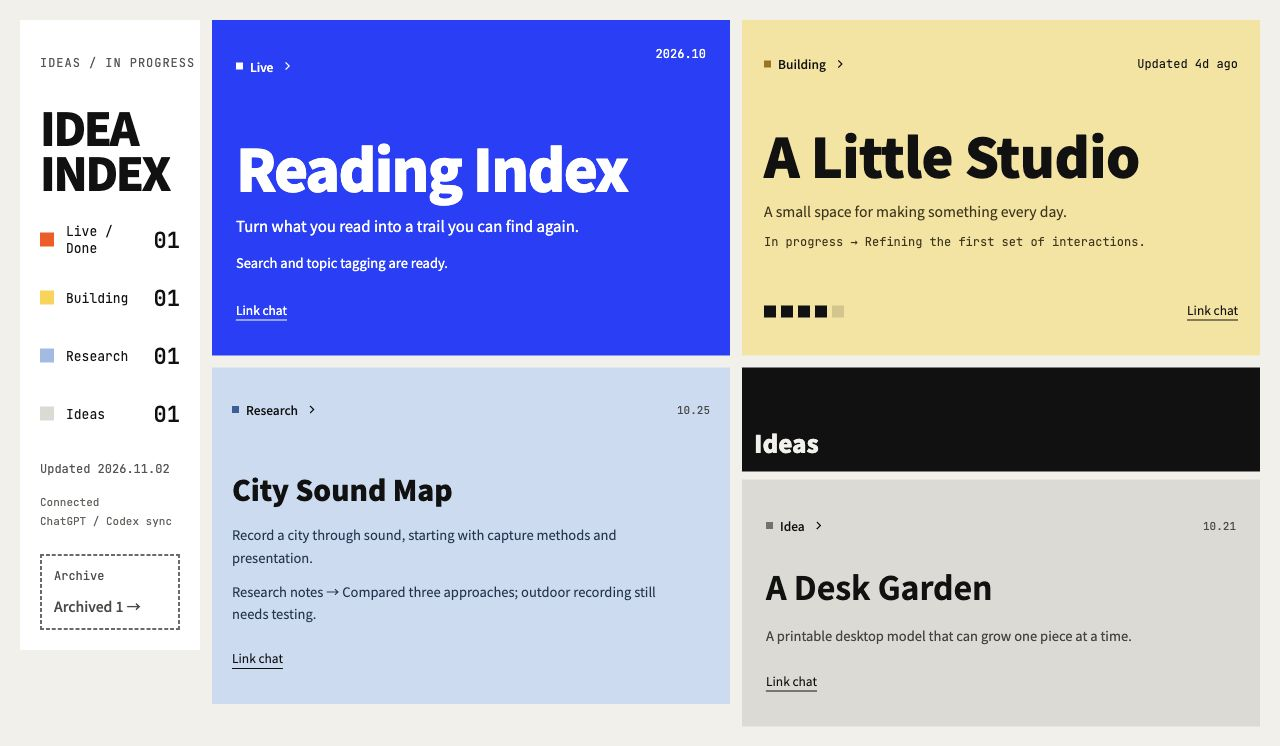
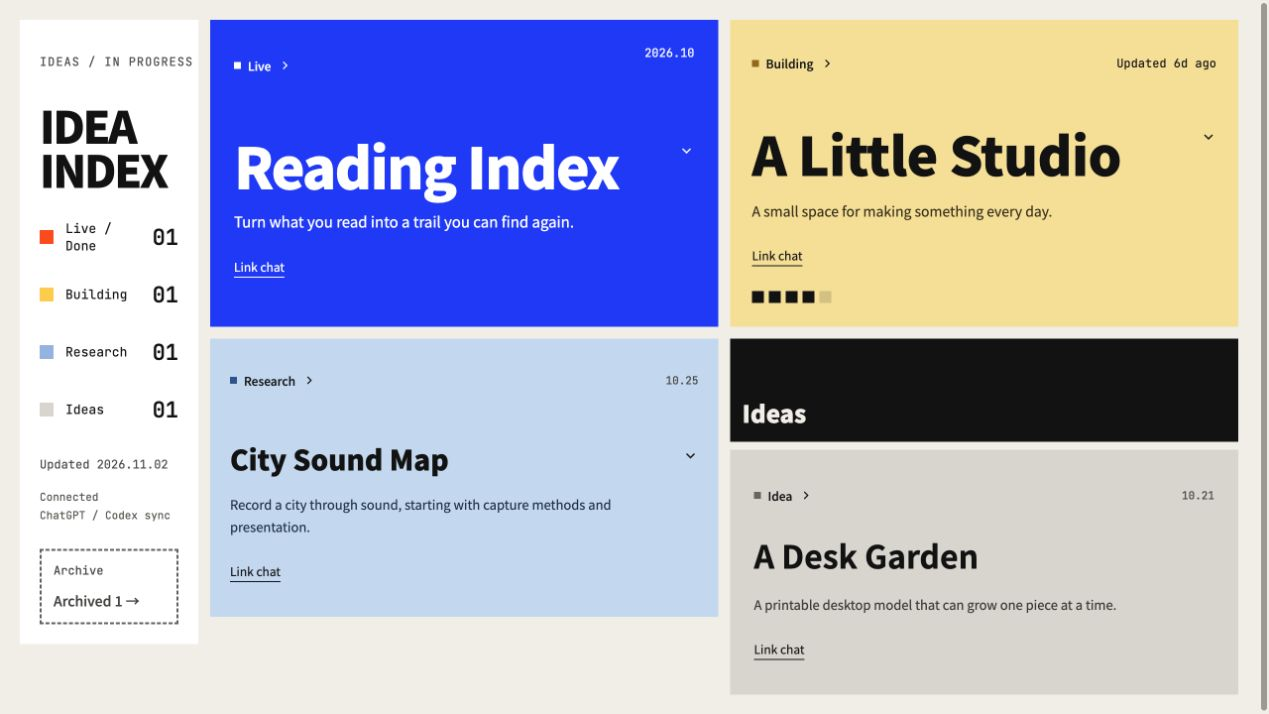
fix: stabilize expanded cards and preserve conversation sources

diff --git a/worker/index.js b/worker/index.js
@@ -25,12 +25,44 @@ async function mutate(env,apply){
 }
 function record(p,status,source,evidence){const now=new Date().toISOString();if(status!==p.status){if(status==='discarded')p.previousStatus=p.status;p.history=[{at:now,from:p.status,to:status,source,evidence},...p.history].slice(0,200);p.status=status;}p.statusSource=source;p.statusChangedAt=now;}
 async function updateStatus(env,id,status){if(!STATUSES.includes(status))fail('Invalid status');return mutate(env,state=>{const p=state.ideas.find(p=>p.id===id);if(!p)fail('Project not found',404);if(p.status===status)return false;record(p,status,'manual','在项目卡片上更改状态');});}
-async function updateChatLink(env,id,chatUrl){
+// Session metadata is an opaque correlation key, never a public conversation ID.
+// Remember a real URL once supplied, and reuse it only in that caller's session.
+async function sourceSession(request,meta){
+ const session=meta?.['openai/session'],user=request.headers.get('oai-authenticated-user-id');
+ return user&&typeof session==='string'&&session.length>0&&session.length<=512?await digest(JSON.stringify([user,session])):'';
+}
+function rememberSource(state,p,input,sessionKey='',source='sync',replace=true){
+ let changed=false;
+ if(sessionKey&&!(p.chatSessionKeys||[]).includes(sessionKey)){
+  p.chatSessionKeys=[sessionKey,...(p.chatSessionKeys||[])].slice(0,24);changed=true;
+ }
+ const supplied=validChatURL(input.chatUrl);
+ if(supplied&&sessionKey){
+  const sources=state.chatSources||{};
+  if(sources[sessionKey]!==supplied){
+   delete sources[sessionKey];sources[sessionKey]=supplied;
+   state.chatSources=Object.fromEntries(Object.entries(sources).slice(-256));changed=true;
+  }
+ }
+ const url=supplied||(sessionKey?validChatURL(state.chatSources?.[sessionKey]):'');
+ const save=(card,canReplace)=>{
+  if(!url||(card.chatUrl&&!canReplace)||card.chatUrl===url)return;
+  card.chatUrl=url;card.chatLinkSource=source;card.chatLinkUpdatedAt=new Date().toISOString();changed=true;
+ };
+ save(p,replace);
+ // A chat can contain several ideas. Repair earlier unlinked cards from the
+ // same session without replacing their independently known sources.
+ if(supplied&&sessionKey)for(const card of state.ideas)if(card!==p&&card.chatSessionKeys?.includes(sessionKey))save(card,false);
+ return changed;
+}
+async function updateChatLink(env,id,chatUrl,sessionKey=''){
  const url=chatUrl===null?'':validChatURL(chatUrl);
  if(chatUrl!==null&&!url)fail('请粘贴 ChatGPT 对话地址（https://chatgpt.com/c/...），不是分享或站点链接。');
  return mutate(env,state=>{
   const p=state.ideas.find(p=>p.id===id);if(!p)fail('Project not found',404);
-  if((p.chatUrl||'')===url&&p.chatLinkSource==='manual')return false;
+  const unchanged=(p.chatUrl||'')===url&&p.chatLinkSource==='manual';
+  const sourceChanged=url?rememberSource(state,p,{chatUrl:url},sessionKey,'manual'):false;
+  if(unchanged)return sourceChanged;
   p.chatUrl=url;p.chatLinkSource='manual';p.chatLinkUpdatedAt=new Date().toISOString();
   p.history=[{at:p.chatLinkUpdatedAt,source:'manual',text:url?'关联 ChatGPT 对话':'移除 ChatGPT 对话关联'},...(p.history||[])].slice(0,200);
  });
@@ -50,7 +82,7 @@ function validateSync(input,known=false,hookDiscovery=false){
  if(input.status==='discarded'&&input.archiveConfirmed!==true)fail('Archiving requires explicit user intent');
  if(input.status==='live'&&!(input.evidence&&((input.deploymentVerified===true&&/^https?:\/\//.test(input.deploymentUrl||''))||(input.artifactVerified===true&&typeof input.artifactName==='string'&&input.artifactName.trim()&&input.artifactName.length<=200&&!/[\\/]/.test(input.artifactName)))))fail('A verified deployment or usable final artifact is required');
 }
-async function syncProject(env,input,hookDiscovery=false){
+async function syncProject(env,input,hookDiscovery=false,sessionKey=''){
  return mutate(env,state=>{
   let p=state.ideas.find(p=>p.id===input.id);
   validateSync(input,Boolean(p),hookDiscovery);
@@ -58,15 +90,17 @@ async function syncProject(env,input,hookDiscovery=false){
    if((!input.discovery&&!hookDiscovery)||input.status==='discarded')fail('No idea to create');
    p={id:input.id,name:text(input.name,120),description:text(input.description,500),status:input.status,statusSource:'sync',history:[],url:'',threadId:'',createdAt:input.observedAt};state.ideas.push(p);
   }
-  if((p.eventIds||[]).includes(input.eventId))return false;
-  if(p.lastObservedAt&&Date.parse(input.observedAt)<Date.parse(p.lastObservedAt))return false;
+  const stale=p.lastObservedAt&&Date.parse(input.observedAt)<Date.parse(p.lastObservedAt);
+  const sourceChanged=rememberSource(state,p,input,sessionKey,'sync',!stale);
+  // Supplying a missing source is useful even when progress is a duplicate or
+  // older than the latest work. Never roll progress/status back to add a link.
+  if((p.eventIds||[]).includes(input.eventId)||stale)return sourceChanged;
   p.progress=text(input.progress,1000);p.updatedAt=input.observedAt;p.lastObservedAt=input.observedAt;
   if(p.statusSource!=='manual'||input.statusConfirmed===true||input.archiveConfirmed===true)record(p,input.status,'sync',text(input.evidence,1000));
   if(input.deploymentVerified===true)p.url=text(input.deploymentUrl,2000);
   if(input.status==='live'&&input.artifactVerified){p.artifactName=text(input.artifactName,200);p.deliveryKind='artifact';}
   else if(input.status==='live'&&input.deploymentVerified)p.deliveryKind='website';
   if(/^[0-9a-f-]{36}$/i.test(input.threadId||''))p.threadId=input.threadId;
-  if(input.chatUrl&&p.chatLinkSource!=='manual'){p.chatUrl=validChatURL(input.chatUrl);p.chatLinkSource='sync';}
   p.eventIds=[input.eventId,...(p.eventIds||[])].slice(0,100);
   p.history=[{at:input.observedAt,text:p.progress,source:'sync',evidence:text(input.evidence,1000)},...p.history].slice(0,200);
  });
@@ -79,7 +113,7 @@ const ideaName=value=>typeof value==='string'?value.normalize('NFKC').trim().toL
 async function digest(value){return [...new Uint8Array(await crypto.subtle.digest('SHA-256',new TextEncoder().encode(value)))].map(b=>b.toString(16).padStart(2,'0')).join('');}
 // ChatGPT has no local directory enrollment. Only the authenticated MCP path
 // prepares discovery metadata; the secret-key hook endpoint stays strict.
-async function syncChatIdea(env,input){
+async function syncChatIdea(env,input,sessionKey=''){
  const {state}=await read(env);
  let existing=state.ideas.find(p=>p.id===input.id);
  if(!existing&&ideaName(input.name)){
@@ -94,17 +128,27 @@ async function syncChatIdea(env,input){
  if(existing)delete prepared.discovery;
  else prepared.discovery={kind:'idea',scopeId:'scope-'+(await digest('chat-source:'+(input.chatUrl||input.threadId||'chatgpt'))).slice(0,24)};
  prepared.eventId=input.eventId??'chat-'+await digest(JSON.stringify([identity,input.status,input.progress,input.evidence||'',input.observedAt||'',input.chatUrl||'',input.deploymentUrl||'',input.deploymentVerified===true,input.artifactName||'',input.artifactVerified===true,input.statusConfirmed===true,input.archiveConfirmed===true]));
- return syncProject(env,prepared);
+ return syncProject(env,prepared,false,sessionKey);
 }
-const tools=[{name:'list_ideas',description:'查看已入板的想法、调研与作品进展。同步前先匹配已有主题并沿用 id，后续换聊天或目录不重复建卡。',annotations:{readOnlyHint:true},inputSchema:{type:'object',properties:{},additionalProperties:false}},{name:'sync_idea',description:'把 ChatGPT 网页聊天或 Codex 中用户自己的想法与调研同步到 Idea Flows 看板，无需本地目录或项目预登记。先 list_ideas 匹配，已有主题沿用 id；新主题提供 name、description、evidence，服务端生成编号。随口想法用 idea；资料、竞品、可行性调研用 research；实际制作才用 dev；调研完成不等于 live。保留手动状态。只传摘要，不传整段聊天；不得把假设举例或别人的想法新建为用户项目。chatUrl 仅传已知真实来源，未知则省略。上线需要验证，归档需要用户明确指令。',annotations:{readOnlyHint:false,destructiveHint:false,idempotentHint:true,openWorldHint:false},inputSchema:{type:'object',properties:{id:{type:'string',description:'已有卡片的 id，从 list_ideas 原样复制。新主题可省略，不编造。'},ideaKey:{type:'string',description:'可选的稳定主题标识；跨聊天实现同一目标时沿用，或直接使用已有 id。'},name:{type:'string',description:'用户想法或研究主题名称；新建必填。'},description:{type:'string',description:'主题目标；新建必填。'},discovery:{type:'object',description:'旧版 Codex 兼容字段，网页聊天无需提供。',properties:{kind:{type:'string',enum:['idea']},scopeId:{type:'string'}},required:['kind','scopeId'],additionalProperties:false},status:{type:'string',enum:STATUSES,description:'idea 想法；research 调研；dev 实现；live 已验证交付；discarded 用户明确归档。'},progress:{type:'string',description:'最近发现、已做工作及下一步待验证问题。'},eventId:{type:'string',description:'可选去重事件编号；省略时由服务端生成。'},observedAt:{type:'string',description:'可选实际进展时间 ISO 8601；省略时使用服务器时间。'},threadId:{type:'string',description:'仅用于已知的本地 Codex 聊天编号；ChatGPT 网页聊天请使用 chatUrl。'},chatUrl:{type:'string',description:'已知真实的 https://chatgpt.com/c/... 或 /g/.../c/... 来源地址；未知则省略，不编造。'},evidence:{type:'string',description:'支持本次想法和进展的简短事实依据；新建必填。'},deploymentUrl:{type:'string'},deploymentVerified:{type:'boolean'},artifactVerified:{type:'boolean'},artifactName:{type:'string'},archiveConfirmed:{type:'boolean'},statusConfirmed:{type:'boolean'}},required:['status','progress'],additionalProperties:false}}];
-tools.push({name:'link_idea_chat',description:'给已有看板卡片关联、替换或移除真实的 ChatGPT 对话链接，不修改项目状态或进展。先 list_ideas 取得 id。ChatGPT 不一定提供可打开的当前聊天网址；没有真实网址时请用户从地址栏复制，不能把匿名 session 编号拼成网址。用户主动提供链接并要求关联时调用。手动关联优先于后续自动同步；移除只清除网页关联，保留 Codex 来源。',annotations:{readOnlyHint:false,destructiveHint:false,idempotentHint:true,openWorldHint:false},inputSchema:{type:'object',properties:{id:{type:'string',description:'已有卡片的 id。'},chatUrl:{type:['string','null'],description:'用户提供或已知真实的 ChatGPT 对话地址；null 表示用户明确移除网页关联。'}},required:['id','chatUrl'],additionalProperties:false}});
+const tools=[{name:'list_ideas',description:'查看已入板的想法、调研与作品进展。同步前先匹配已有主题并沿用 id，后续换聊天或目录不重复建卡。',annotations:{readOnlyHint:true},inputSchema:{type:'object',properties:{},additionalProperties:false}},{name:'sync_idea',description:'把 ChatGPT 网页聊天或 Codex 中用户自己的想法与调研同步到 Idea Flows 看板，无需本地目录或项目预登记。先 list_ideas 匹配，已有主题沿用 id；新主题提供 name、description、evidence，服务端生成编号。随口想法用 idea；资料、竞品、可行性调研用 research；实际制作才用 dev；调研完成不等于 live。保留手动状态。只传摘要，不传整段聊天；不得把假设举例或别人的想法新建为用户项目。来源链接是同步的一部分：尽量传入当前对话的真实 chatUrl；若返回 sourceLink.status=missing，不要宣称同步全部完成，应说明缺少链接并请用户提供一次地址栏网址。服务端会在同一匿名会话中复用真实链接，不得把匿名 session 当网址。上线需要验证，归档需要用户明确指令。',annotations:{readOnlyHint:false,destructiveHint:false,idempotentHint:true,openWorldHint:false},inputSchema:{type:'object',properties:{id:{type:'string',description:'已有卡片的 id，从 list_ideas 原样复制。新主题可省略，不编造。'},ideaKey:{type:'string',description:'可选的稳定主题标识；跨聊天实现同一目标时沿用，或直接使用已有 id。'},name:{type:'string',description:'用户想法或研究主题名称；新建必填。'},description:{type:'string',description:'主题目标；新建必填。'},discovery:{type:'object',description:'旧版 Codex 兼容字段，网页聊天无需提供。',properties:{kind:{type:'string',enum:['idea']},scopeId:{type:'string'}},required:['kind','scopeId'],additionalProperties:false},status:{type:'string',enum:STATUSES,description:'idea 想法；research 调研；dev 实现；live 已验证交付；discarded 用户明确归档。'},progress:{type:'string',description:'最近发现、已做工作及下一步待验证问题。'},eventId:{type:'string',description:'可选去重事件编号；省略时由服务端生成。'},observedAt:{type:'string',description:'可选实际进展时间 ISO 8601；省略时使用服务器时间。'},threadId:{type:'string',description:'仅用于已知的本地 Codex 聊天编号；ChatGPT 网页聊天请使用 chatUrl。'},chatUrl:{type:'string',description:'当前对话已知真实的 https://chatgpt.com/c/... 或 /g/.../c/... 地址。首次关联尽量提供；同一会话后续可复用。未知不得编造，返回 missing 时应补全。'},evidence:{type:'string',description:'支持本次想法和进展的简短事实依据；新建必填。'},deploymentUrl:{type:'string'},deploymentVerified:{type:'boolean'},artifactVerified:{type:'boolean'},artifactName:{type:'string'},archiveConfirmed:{type:'boolean'},statusConfirmed:{type:'boolean'}},required:['status','progress'],additionalProperties:false}}];
+tools.push({name:'link_idea_chat',description:'给已有看板卡片关联、替换或移除真实的 ChatGPT 对话链接，不修改项目状态或进展。先 list_ideas 取得 id。ChatGPT 不一定提供可打开的当前聊天网址；没有真实网址时请用户从地址栏复制，不能把匿名 session 编号拼成网址。用户主动提供链接并要求关联时调用。兼容旧客户端补录来源；后续 hook 或同步提供真实地址时自动更新，不锁定手动链接。移除只清除网页关联，保留 Codex 来源。',annotations:{readOnlyHint:false,destructiveHint:false,idempotentHint:true,openWorldHint:false},inputSchema:{type:'object',properties:{id:{type:'string',description:'已有卡片的 id。'},chatUrl:{type:['string','null'],description:'用户提供或已知真实的 ChatGPT 对话地址；null 表示用户明确移除网页关联。'}},required:['id','chatUrl'],additionalProperties:false}});
 async function mcp(request,env){
  const body=await request.json();let result;
  if(body.method==='server/discover')result={supportedVersions:['2026-07-28'],capabilities:{tools:{}}};
- else if(body.method==='initialize')result={protocolVersion:'2025-03-26',capabilities:{tools:{}},serverInfo:{name:'idea-flows',version:'1.0.0'}};
+ else if(body.method==='initialize')result={protocolVersion:'2025-03-26',capabilities:{tools:{}},serverInfo:{name:'idea-flows',version:'1.1.1'},instructions:'同步前匹配已有卡片。同步包含真实来源链接；sourceLink.status=missing 表示来源仍待关联，不能宣称已完整同步。先使用上下文中已知真实的聊天网址；拿不到时请用户提供一次地址栏网址，再用 link_idea_chat 关联。后续同一会话会自动复用；openai/session 是匿名关联键，绝不能拼成聊天网址。'};
  else if(body.method==='tools/list')result={tools};
  else if(body.method==='tools/call'){
-  try{const args=body.params?.arguments||{};const value=body.params?.name==='list_ideas'?(await read(env)).state:body.params?.name==='sync_idea'?await syncChatIdea(env,args):body.params?.name==='link_idea_chat'?await updateChatLink(env,args.id,args.chatUrl):fail('Unknown tool');result={content:[{type:'text',text:JSON.stringify(value)}]};}
+  try{
+   const args=body.params?.arguments||{},name=body.params?.name,sessionKey=await sourceSession(request,body.params?._meta);
+   const value=name==='list_ideas'?(await read(env)).state:name==='sync_idea'?await syncChatIdea(env,args,sessionKey):name==='link_idea_chat'?await updateChatLink(env,args.id,args.chatUrl,sessionKey):fail('Unknown tool');
+   result={content:[{type:'text',text:JSON.stringify(value)}]};
+   if(name==='sync_idea'||name==='link_idea_chat'){
+    const p=value.ideas.find(p=>p.id===args.id)||value.ideas.find(p=>ideaName(p.name)===ideaName(args.name));
+    const url=validChatURL(p?.chatUrl);
+    result.structuredContent={sourceLink:{status:url?'linked':p?.threadId||p?.workspacePath?'codex':'missing',...(url?{url}:{})}};
+    if(name==='sync_idea'&&result.structuredContent.sourceLink.status==='missing')result.content.push({type:'text',text:'进展已保存，但来源对话链接仍缺失。请使用已知真实的当前 ChatGPT 对话网址调用 link_idea_chat；若当前上下文没有网址，请用户提供一次地址栏链接。不要将 openai/session 或本地 Codex 编号拼成网页网址。'});
+   }
+  }
   catch(error){result={isError:true,content:[{type:'text',text:error.message}]};}
  }else if(body.method?.startsWith('notifications/'))return new Response(null,{status:204});
  else return json({jsonrpc:'2.0',id:body.id??null,error:{code:-32601,message:'Method not found'}});

diff --git a/web/app.js b/web/app.js
@@ -4,6 +4,7 @@ import {labels,ageDays,dateText,shortDate,chatURL,chatGPTURL} from './data.js';
 import {load,fetchState,changeStatus,changeChatLink,cache} from './store.js';
 let state=load(),filter='all',transition=null,toastTimer,pollBusy=false;
 const pending=new Set(),board=document.querySelector('#board'),drawer=document.querySelector('#drawer');
+const openOverviewCards=new Set();
 const linkEditor=document.querySelector('#chat-link-editor'),linkInput=document.querySelector('#chat-link-url'),linkError=document.querySelector('#chat-link-error');
 let linkingId=null,linkOrigin=null,linkSaving=false;
 const reduced=()=>matchMedia('(prefers-reduced-motion: reduce)').matches;
@@ -20,10 +21,32 @@ function projectLinks(p){return `<div class="card-links">${conversationActions(p
 function heading(p){const href=chatURL(p);return href?`<a class="card-heading" href="${esc(href)}" ${codexTarget} title="${esc(t('openProject',{app:chatGPTURL(p)?'ChatGPT':'Codex',name:p.name}))}">${esc(p.name)}<svg class="codex-arrow" viewBox="0 0 24 24" aria-hidden="true"><path d="M6 18 18 6M6 6h12v12"/></svg></a>`:`<span class="card-heading">${esc(p.name)}</span>`;}
 function statusControl(p){return `<div class="status-control"><button class="status-trigger" data-menu="${esc(p.id)}" aria-expanded="false" aria-controls="menu-${esc(p.id)}" aria-label="${esc(t('changeState',{name:p.name,status:statusLabel(p)}))}"><span class="status-dot ${p.status}"></span>${statusLabel(p)}<svg viewBox="0 0 16 16" aria-hidden="true"><path d="m4 6 4 4 4-4"/></svg></button><div class="status-menu" id="menu-${esc(p.id)}" aria-label="${esc(t('stateOptions',{name:p.name}))}">${Object.entries(labels).filter(([key])=>key!==p.status).map(([key,label])=>`<button data-status="${key}" data-id="${esc(p.id)}" ${pending.has(p.id)?'disabled':''}><span class="status-dot ${key}"></span>${key==='discarded'?t('archive'):label}</button>`).join('')}</div></div>`;}
 const attributes=p=>`data-idea="${esc(p.id)}" style="view-transition-name:${nameFor(p.id)}"`;
-function liveCard(p){return `<article class="live-card ${p.color==='blue'?'blue':''}" ${attributes(p)}><div class="card-top status-row">${statusControl(p)}<span class="mono">${esc(dateText(p.updatedAt).slice(0,7))}</span></div><h2>${heading(p)}</h2><p>${esc(p.description)}</p><p class="progress">${esc(p.progress)}</p>${projectLinks(p)}</article>`;}
-function devCard(p){const d=ageDays(p),level=d<=3?5:d<=10?4:d<=21?3:d<=35?2:1,tone=d<=3?'':d<=14?'warm':d<=30?'cool':'stale';return `<article class="dev-card ${tone}" ${attributes(p)}><div class="dev-meta status-row">${statusControl(p)}<div class="age-actions"><span class="ago">${t(d<=14?'updatedAgo':'inactiveDays',{days:d})}</span>${d>30?`<button class="quick-archive" data-id="${esc(p.id)}" data-status="discarded" aria-label="${esc(t('archiveProject',{name:p.name}))}">${t('archive')} <svg viewBox="0 0 16 16" aria-hidden="true"><path d="M3 5h10v8H3zM2 2h12v3H2zM6 8h4"/></svg></button>`:''}</div></div><h3>${heading(p)}</h3><p>${esc(p.description)}</p><p class="progress">${t('workingOn')}${esc(p.progress||t('waitingUpdate'))}</p><div class="card-bottom"><div class="bars" role="img" aria-label="${t('activity',{level})}">${[0,1,2,3,4].map(k=>`<span class="${k<level?'on':''}"></span>`).join('')}</div>${projectLinks(p)}</div></article>`;}
+function liveCard(p){return `<article class="live-card ${p.color==='blue'?'blue':''}" ${attributes(p)}><div class="card-top status-row">${statusControl(p)}<span class="mono">${esc(dateText(p.updatedAt).slice(0,7))}</span></div><h2>${heading(p)}</h2><p>${esc(p.description)}</p>${projectLinks(p)}<p class="progress">${esc(p.progress)}</p></article>`;}
+function devCard(p){const d=ageDays(p),level=d<=3?5:d<=10?4:d<=21?3:d<=35?2:1,tone=d<=3?'':d<=14?'warm':d<=30?'cool':'stale';return `<article class="dev-card ${tone}" ${attributes(p)}><div class="dev-meta status-row">${statusControl(p)}<div class="age-actions"><span class="ago">${t(d<=14?'updatedAgo':'inactiveDays',{days:d})}</span>${d>30?`<button class="quick-archive" data-id="${esc(p.id)}" data-status="discarded" aria-label="${esc(t('archiveProject',{name:p.name}))}">${t('archive')} <svg viewBox="0 0 16 16" aria-hidden="true"><path d="M3 5h10v8H3zM2 2h12v3H2zM6 8h4"/></svg></button>`:''}</div></div><h3>${heading(p)}</h3><p>${esc(p.description)}</p>${projectLinks(p)}<p class="progress">${t('workingOn')}${esc(p.progress||t('waitingUpdate'))}</p><div class="card-bottom"><div class="bars" role="img" aria-label="${t('activity',{level})}">${[0,1,2,3,4].map(k=>`<span class="${k<level?'on':''}"></span>`).join('')}</div></div></article>`;}
 function ideaCard(p){return `<article class="idea-tile" ${attributes(p)}><div class="idea-top status-row">${statusControl(p)}<span class="idea-date">${esc(shortDate(p))}</span></div><h3 class="idea-name">${heading(p)}</h3><p class="idea-description">${esc(p.description)}</p>${projectLinks(p)}</article>`;}
-function researchCard(p){return `<article class="research-card" ${attributes(p)}><div class="idea-top status-row">${statusControl(p)}<span class="idea-date">${esc(shortDate(p))}</span></div><h3>${heading(p)}</h3><p>${esc(p.description)}</p><p class="progress">${t('researchProgress')}${esc(p.progress||t('researchPending'))}</p>${projectLinks(p)}</article>`;}
+function researchCard(p){return `<article class="research-card" ${attributes(p)}><div class="idea-top status-row">${statusControl(p)}<span class="idea-date">${esc(shortDate(p))}</span></div><h3>${heading(p)}</h3><p>${esc(p.description)}</p>${projectLinks(p)}<p class="progress">${t('researchProgress')}${esc(p.progress||t('researchPending'))}</p></article>`;}
+function foldOverviewCards(){
+ if(filter!=='all')return;
+ board.querySelectorAll('section').forEach(section=>{
+  const cards=[...section.querySelectorAll(':scope > article')],compact=cards.length>=2;
+  if(compact)section.classList.add('compact-section');
+  cards.forEach(card=>{
+   if(compact)card.classList.add('compact-card');
+   const id=card.dataset.idea,title=card.querySelector(':scope > h2,:scope > h3'),description=card.querySelector(':scope > p:not(.progress)'),progress=card.querySelector(':scope > .progress');
+   if(!progress)return;
+   const details=document.createElement('details'),summary=document.createElement('summary'),body=document.createElement('div'),inner=document.createElement('div');
+   details.className='overview-disclosure';details.open=openOverviewCards.has(id);summary.className='overview-summary';
+   const copy=document.createElement('div');copy.className='overview-summary-copy';card.insertBefore(details,title);copy.append(title);if(description)copy.append(description);const links=card.querySelector(':scope > .card-links');if(links)copy.append(links);summary.append(copy);
+   summary.insertAdjacentHTML('beforeend','<svg viewBox="0 0 16 16" aria-hidden="true"><path d="m4 6 4 4 4-4"/></svg>');
+   body.className='overview-details';inner.className='overview-details-inner';inner.append(progress);body.append(inner);details.append(summary,body);
+   const closeOnLeave=()=>{if(!card.contains(document.activeElement))details.open=false;};
+   card.addEventListener('pointerenter',e=>{if(e.pointerType==='mouse')details.open=true;});
+   card.addEventListener('pointerleave',e=>{if(e.pointerType==='mouse')closeOnLeave();});
+   card.addEventListener('focusout',e=>{if(!card.contains(e.relatedTarget)&&!card.matches(':hover')&&matchMedia('(hover:hover)').matches)details.open=false;});
+   details.addEventListener('toggle',()=>{if(card.isConnected){if(details.open)openOverviewCards.add(id);else openOverviewCards.delete(id);}});
+  });
+ });
+}
 function render(){
  const live=state.ideas.filter(p=>p.status==='live'),dev=state.ideas.filter(p=>p.status==='dev'),research=state.ideas.filter(p=>p.status==='research'),ideas=state.ideas.filter(p=>p.status==='idea'),archived=state.ideas.filter(p=>p.status==='discarded');
  board.classList.toggle('filtered',filter!=='all');
@@ -34,7 +57,7 @@ function render(){
  ${(filter==='all'&&research.length)||filter==='research'?`<section class="research-section" aria-label="${labels.research}">${research.length?research.map(researchCard).join(''):`<div class="empty">${t('emptyResearch')}</div>`}</section>`:''}
  ${(filter==='all'&&ideas.length)||filter==='idea'?`<section class="ideas-section ${ideas.length===1?'single':''}" aria-label="${t('ideasFilter')}"><div class="idea-title"><h2>${t('ideasFilter')}</h2></div>${ideas.length?ideas.map(ideaCard).join(''):`<div class="empty">${t('emptyIdeas')}</div>`}</section>`:''}
  ${filter==='all'&&!live.length&&!dev.length&&!research.length&&!ideas.length?`<div class="empty board-empty">${t('emptyBoard')}</div>`:''}`;
- if(drawer.open)renderDrawer();
+ foldOverviewCards();if(drawer.open)renderDrawer();
 }
 function renderDrawer(){const list=state.ideas.filter(p=>p.status==='discarded');document.querySelector('#discarded-list').innerHTML=list.length?list.map(p=>`<article class="discarded-item" ${attributes(p)}><div class="drawer-card-top status-row">${statusControl(p)}<span class="mono">${esc(shortDate(p))}</span></div><h3>${heading(p)}</h3><p>${esc(p.progress)}</p><div class="card-links">${conversationActions(p)}${siteLink(p)}<button class="restore-button" data-status="${esc(p.previousStatus||'idea')}" data-id="${esc(p.id)}">${t('restore')}</button></div></article>`).join(''):`<div class="empty">${t('emptyArchive')}</div>`;}
 function toast(message){const el=document.querySelector('#toast');clearTimeout(toastTimer);el.textContent=message;el.classList.add('visible');toastTimer=setTimeout(()=>el.classList.remove('visible'),4000);}
@@ -67,7 +90,7 @@ function handleClick(e){
  const link=e.target.closest('[data-link-chat]');if(link){openChatLink(link);return;}
  const choice=e.target.closest('[data-status]');if(choice){setStatus(choice.dataset.id,choice.dataset.status);return;}
  const menu=e.target.closest('[data-menu]');if(menu){const control=menu.closest('.status-control');control.classList.add('menu-open');menu.setAttribute('aria-expanded','true');return;}
- const control=e.target.closest('[data-filter]');if(control){filter=filter===control.dataset.filter?'all':control.dataset.filter;repaint(filter);return;}
+ const control=e.target.closest('[data-filter]');if(control){filter=filter===control.dataset.filter?'all':control.dataset.filter;openOverviewCards.clear();repaint(filter);return;}
  if(e.target.closest('#open-drawer')){renderDrawer();drawer.showModal();}
 }
 function placeChatLink(){

diff --git a/web/styles.css b/web/styles.css
@@ -6,7 +6,9 @@ button,input,textarea{font:inherit}
 button,a{-webkit-tap-highlight-color:transparent}
 button{color:inherit;cursor:pointer;touch-action:manipulation}
 ::selection{background:var(--yellow);color:var(--ink)}
-html{scrollbar-color:#a6a39b var(--paper);scrollbar-width:thin}
+/* Reserve vertical scrollbar space so expanding cards cannot shrink columns. */
+html{scrollbar-color:#a6a39b var(--paper);scrollbar-width:thin;scrollbar-gutter:stable}
+@supports not (scrollbar-gutter:stable){html{overflow-y:scroll}}
 input,textarea{caret-color:var(--ink)}
 button:focus-visible,a:focus-visible{outline:3px solid var(--blue);outline-offset:5px}
 button{border-radius:0}
@@ -311,3 +313,31 @@ body:has(dialog[open]){overflow:hidden}
 /* English headings use Latin proportions inside the same index column. */
 html[lang="en"] .index h1{font-size:clamp(36px,3.5vw,48px);letter-spacing:-.05em}
 .stat .label{min-width:0}
+
+/* Overview stacks stay compact when a category has several projects. */
+.board:not(.filtered) .compact-section{min-height:0;grid-template-columns:minmax(0,1fr);grid-template-rows:none;grid-auto-rows:auto;align-content:start;align-self:start}
+.compact-section .idea-title{min-height:72px}
+.board .compact-card{display:flex;flex-direction:column;gap:12px;min-height:0;min-width:0;padding:20px 20px 24px}
+.board .dev-card.compact-card{padding:18px 18px 22px}
+.overview-summary{display:flex;align-items:flex-start;justify-content:space-between;gap:12px;cursor:pointer;list-style:none;min-height:44px}
+.overview-summary::-webkit-details-marker{display:none}
+.overview-summary-copy{flex:1;min-width:0}
+.overview-summary .codex-arrow{display:none}
+.overview-summary-copy>p{margin:12px 0 0}
+.board:not(.filtered) .compact-card .overview-summary :is(h2,h3),.board .compact-card>.idea-name{margin:0;padding:4px 0;min-width:0;font-size:24px;font-weight:700;line-height:1.25;letter-spacing:-.02em;overflow-wrap:anywhere}
+.board .compact-card .overview-summary-copy>p{font-size:13px;line-height:1.7}
+.overview-summary>svg{width:16px;height:16px;margin-top:10px;flex:none;fill:none;stroke:currentColor;stroke-width:1.5;transition:transform .42s cubic-bezier(.42,0,.58,1)}
+.live-card:not(.compact-card) .overview-summary>svg{margin-top:42px}
+.dev-card:not(.compact-card) .overview-summary>svg,.research-card:not(.compact-card) .overview-summary>svg{margin-top:34px}
+.overview-disclosure[open]>.overview-summary>svg{transform:rotate(180deg)}
+.overview-summary:focus-visible{outline:3px solid var(--blue);outline-offset:5px}
+.live-card.blue .overview-summary:focus-visible{outline-color:var(--yellow)}
+.overview-details-inner{display:flex;flex-direction:column;gap:12px;min-width:0;padding-top:16px}
+.overview-disclosure::details-content{interpolate-size:allow-keywords;block-size:0;overflow:clip;transition:block-size .42s cubic-bezier(.42,0,.58,1),content-visibility .42s;transition-behavior:allow-discrete}
+.overview-disclosure[open]::details-content{block-size:auto}
+@media(prefers-reduced-motion:reduce){.overview-disclosure::details-content{transition:none}.overview-summary>svg{transition:none}}
+
+/* Source links belong to the fixed summary, above expanding progress. Never
+   let flex auto margins push the pointer target to the bottom of the card. */
+.board article>.card-links{margin-top:0}
+.overview-summary-copy>.card-links{margin-top:12px}

diff --git a/web/index.html b/web/index.html
@@ -17,7 +17,7 @@
 <p class="chat-link-project" id="chat-link-project"></p>
 <label for="chat-link-url">__I18N_chatURL__</label>
 <input id="chat-link-url" type="url" inputmode="url" autocomplete="off" autocapitalize="off" spellcheck="false" maxlength="2000" placeholder="https://chatgpt.com/c/…" aria-describedby="chat-link-help chat-link-error">
-<p class="chat-link-help" id="chat-link-help">从 ChatGPT 地址栏复制__I18N_chatURL__并粘贴。</p>
+<p class="chat-link-help" id="chat-link-help">__I18N_chatHelp__</p>
 <p class="chat-link-error" id="chat-link-error" role="alert" hidden></p>
 <div class="chat-link-actions"><button type="button" id="remove-chat-link" class="remove-chat-link" hidden>__I18N_removeLink__</button><button type="submit" id="save-chat-link" class="save-chat-link">__I18N_saveLink__</button></div>
 </form>

diff --git a/docs/DEPLOY.md b/docs/DEPLOY.md
@@ -71,3 +71,11 @@ MCP-only use needs no `IDEA_SYNC_SECRET`. The local dev server uses a loopback-o
 A Site is one shared board. Anyone permitted into it has the same board API permissions. Owner-private is the intended initial setting. This starter does not implement independent private boards for visitors to a shared/public Site; add an authorization/data-isolation model before offering that product.
 
 The UI supports English (`en`) and Simplified Chinese (`zh-CN`) through `language` in `site.config.json`. New templates default to English; legacy configurations without a language keep Chinese. Built-in headings and descriptive copy follow the language unless explicitly overridden. `locale` changes date formatting only. Personal project content is never automatically translated.
+
+## Conversation links and session repair
+
+`sync_idea` saves progress even if the current chat URL is unavailable. Its result reports `sourceLink.status` as `linked`, `codex`, or `missing`. On `missing`, obtain the actual ChatGPT address once and call `link_idea_chat`; do not derive a URL from an anonymous `openai/session` value or a Codex thread ID.
+
+When the host includes `params._meta["openai/session"]`, the server hashes it with the authenticated caller ID. A supplied real URL can then be reused for other ideas in that same chat and can repair earlier cards without sources. Other callers/sessions are isolated, and repair does not replace other cards' independently known URLs. Duplicate or older progress events may repair a missing link without changing newer progress or manual project status. This does not discover URLs across all ChatGPT chats or make the shared board a per-user isolated service.
+
+Automatic updates with a known real URL may replace legacy manual link markers. Removing a link clears that association; a later explicit source-bearing update may associate it again. Manual lifecycle states remain authoritative.

diff --git a/README.md b/README.md
@@ -30,6 +30,10 @@ Ideas, active research, implementation, and verified delivery drive the correspo
 
 Card controls are **optional corrections**, not a routine maintenance task. If you explicitly choose a status yourself, subsequent automatic updates respect it.
 
+Conversation buttons stay **below the short description and above expandable progress**, so opening a card does not move its link. The board reserves scrollbar space to keep column widths stable.
+
+A real ChatGPT URL is reused within the same caller/session when the host supplies session metadata. Later links can fill earlier missing sources without rolling back progress or manual project states. If no real URL is available, `sourceLink.status: "missing"` explicitly reports it; provide the address once through `link_idea_chat`. Anonymous session IDs are never converted into chat URLs. An automatic update carrying a real URL can replace a legacy manual link marker; manual **project status** still takes priority.
+
 ## Preview
 
 English interface with fictional demo projects. Screenshots are captured from the running app.
